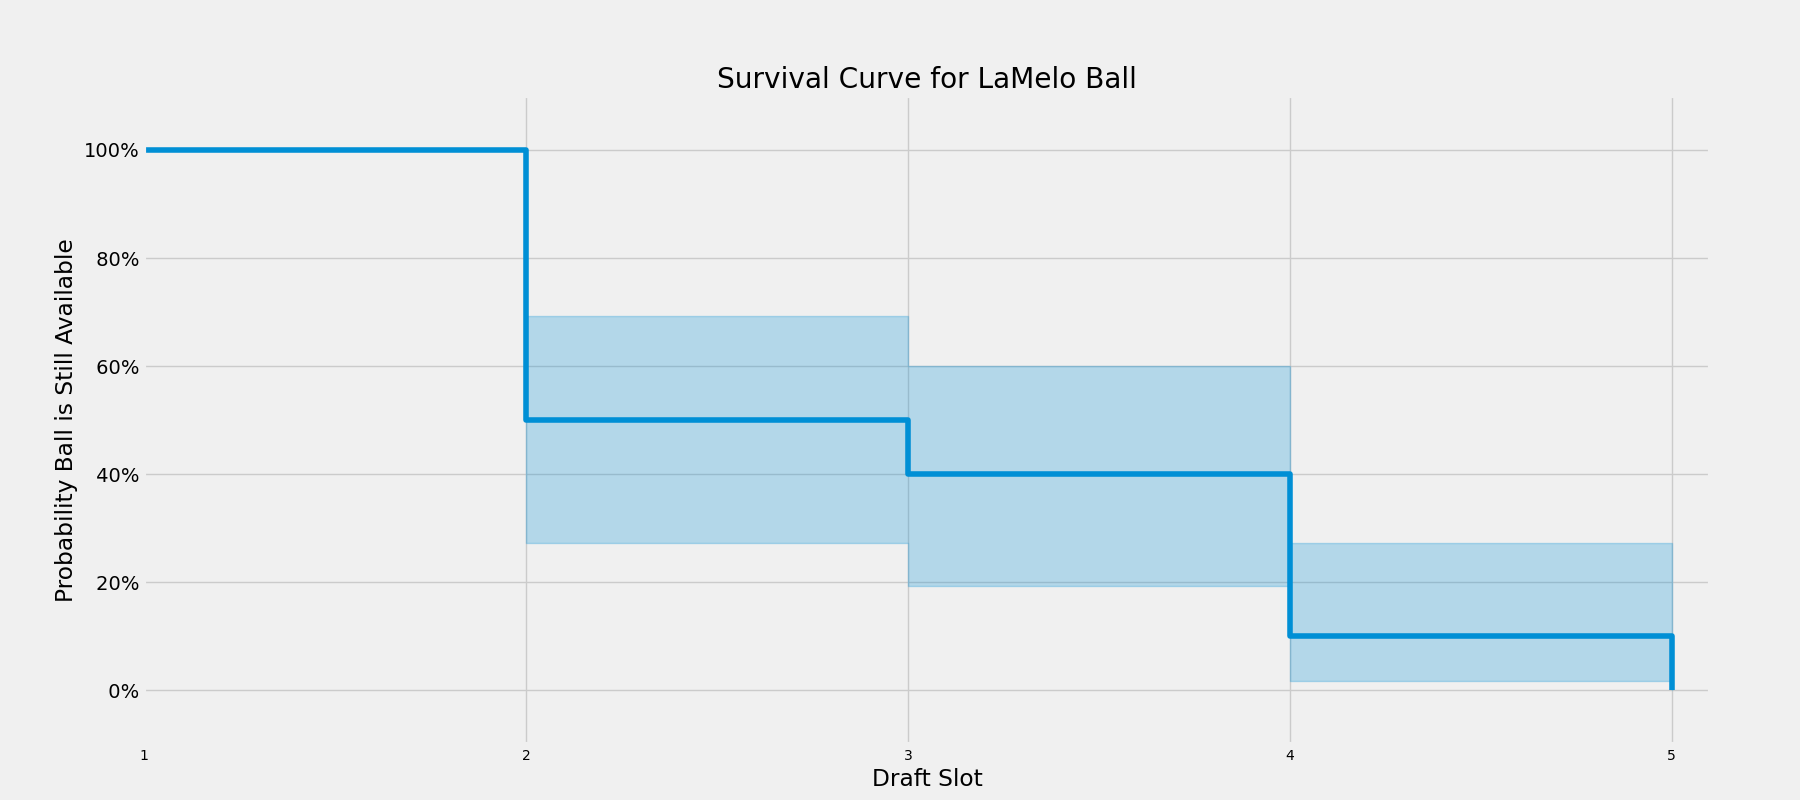
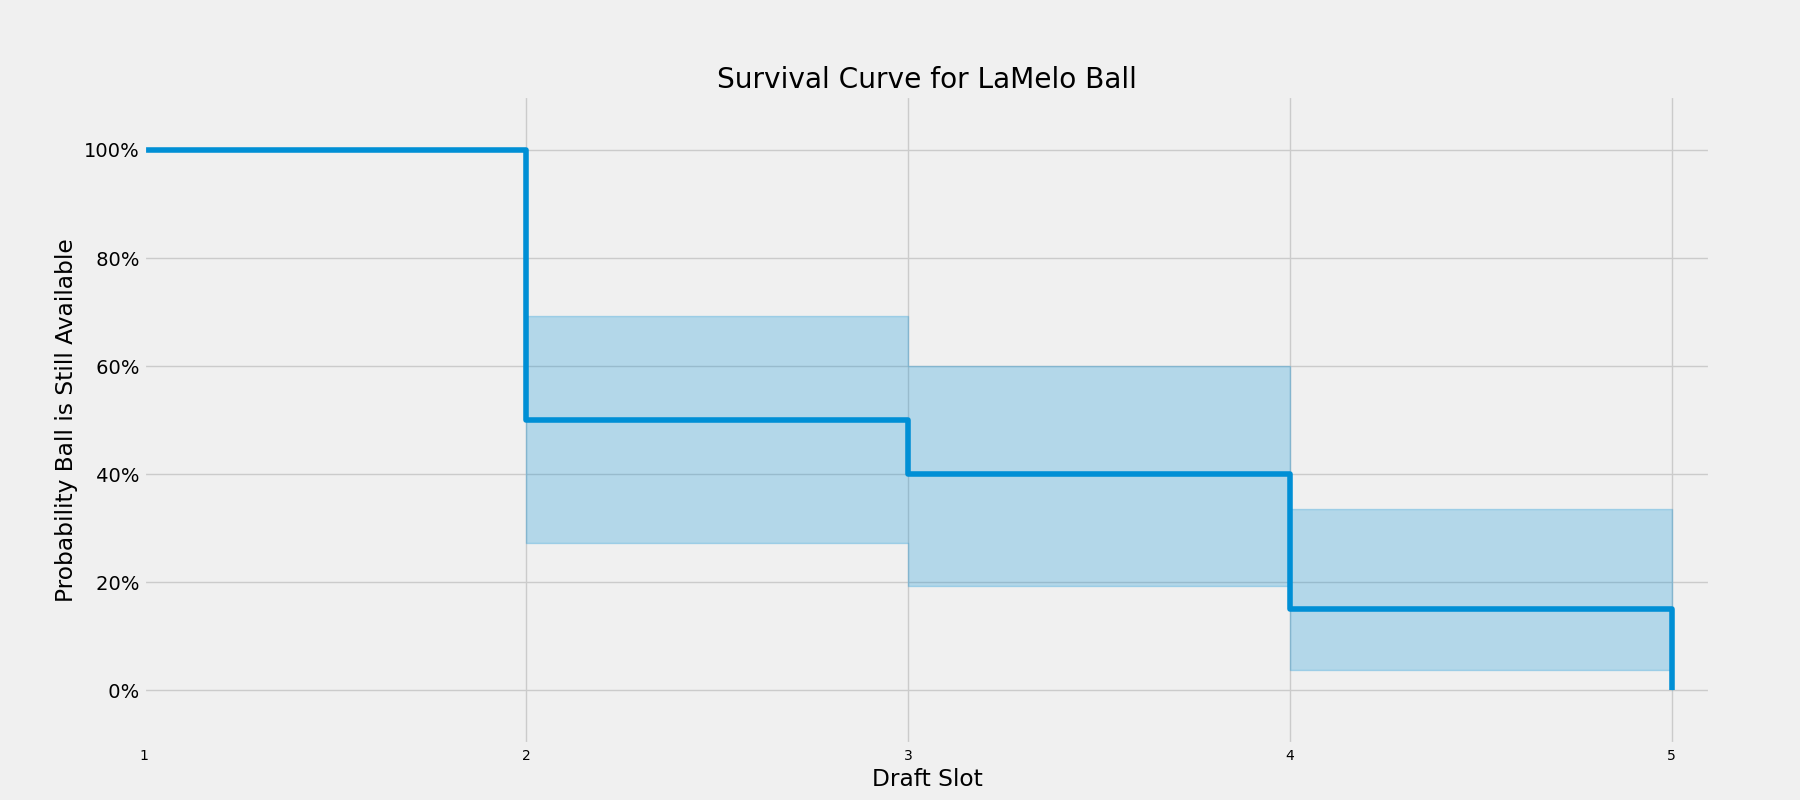
November 2 Update 2.0

Changed region(s): [[0.7156, 0.75, 0.9333, 0.875], [0.7156, 0.625, 0.9333, 0.6875]]

diff --git a/readme.md b/readme.md
@@ -22,7 +22,7 @@ Each player's survival curve is based on information compiled from 20 mock draft
 
 | Name  | Affiliation  | Updated  | Mock Draft  |
 |---|---|---|---|
-| Babcock Hoops  | Babcock Hoops  | October 5  | [Link](https://www.babcockhoops.com/mockdraft)  |
+| Babcock Hoops  | Babcock Hoops  | November 2  | [Link](https://www.babcockhoops.com/mockdraft)  |
 | Bryan Kalbrosky  | Rookie Wire  | October 22  | [Link](https://therookiewire.usatoday.com/lists/2020-nba-mock-draft-all-60-picks-post-combine/)  |
 | Chad Forsberg  | NBC Sports  | October 29  | [Link](https://www.nbcsports.com/boston/celtics/2020-nba-mock-draft-90-best-players-available-fit-team-needs)  |
 | Chris Stone  | Sporting News  | March 24  | [Link](https://www.sportingnews.com/us/nba/news/nba-mock-draft-2020-warriors-pick-timberwolves-lamelo-ball/178cr8zivu85e1qdtavgxp9cc2)  |
@@ -45,13 +45,13 @@ Each player's survival curve is based on information compiled from 20 mock draft
 
 #### Consensus Top-3 Picks
 
-Based on the average draft slot across all mock drafts Anthony Edwards (1.9), LaMelo Ball (2.0), and James Wiseman (3.6) are the consensus top three picks. Their respective survival curves are plotted below. At this point in time Edwards and Ball are the heavy favorites to go in the first two picks. Wiseman is ranked substantially lower in a few mocks resulting in a low probability of him falling to the ninth pick.
+Based on the average draft slot across all mock drafts Anthony Edwards (1.9), LaMelo Ball (2.1), and James Wiseman (3.6) are the consensus top three picks. Their respective survival curves are plotted below. At this point in time Edwards and Ball are the heavy favorites to go in the first two picks. Wiseman is ranked substantially lower in a few mocks resulting in a low probability of him falling to the ninth pick.
 
 <div style="text-align:center"><img src='plots/top_3.png' width=90%></div>
 
 #### Consensus Top-10 Picks
 
-In similar fashion, here are the survival curves of the consensus top-10 picks. Three of the top ten have a non-zero chance of falling out of the lottery according to the mock drafts.
+In similar fashion, here are the survival curves of the consensus top-10 picks. Only Killian Hayes and Devin Vassell have a non-zero chance of falling out of the lottery according to the mock drafts.
 
 <div style="text-align:center"><img src='plots/top_10.png' width=90%></div>
 
